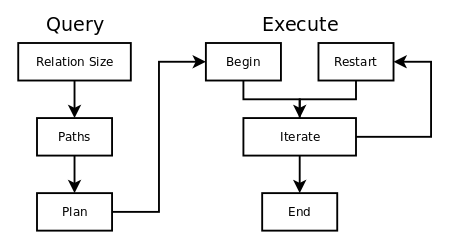
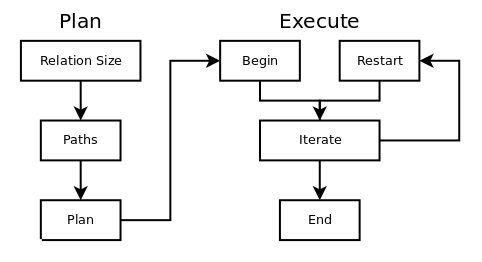
Add more pictures

Changed region(s): [[0.2489, 0.056, 0.9644, 0.952], [0.0311, 0.028, 0.3111, 0.952], [0.1244, 0.812, 0.2178, 0.868]]

diff --git a/slides/06-foreign-data-wrappers.md b/slides/06-foreign-data-wrappers.md
@@ -12,7 +12,7 @@ Foreign Data Wrappers are Tables that call methods
 
 The core Foreign Data Wrapper API is written in C
 
-http://www.postgresql.org/docs/current/static/fdwhandler.html
+Documentation in [the Postgres Manual](http://www.postgresql.org/docs/current/static/fdwhandler.html)
 
 ---
 
@@ -22,9 +22,17 @@ http://www.postgresql.org/docs/current/static/fdwhandler.html
 
 WHERE clauses can tell you how to filter
 
+---
+
+##  Query Planning
+
+![Plan Flow Chart](resources/fdw-plan.png)
+
 You can compute joins remotely
 
----
+DELETE and UPDATE read the rows before altering
+
+Documentation in [the Postgres Manual](http://www.postgresql.org/docs/current/static/fdw-planning.html)
 
 ##  Alter a Table
 
